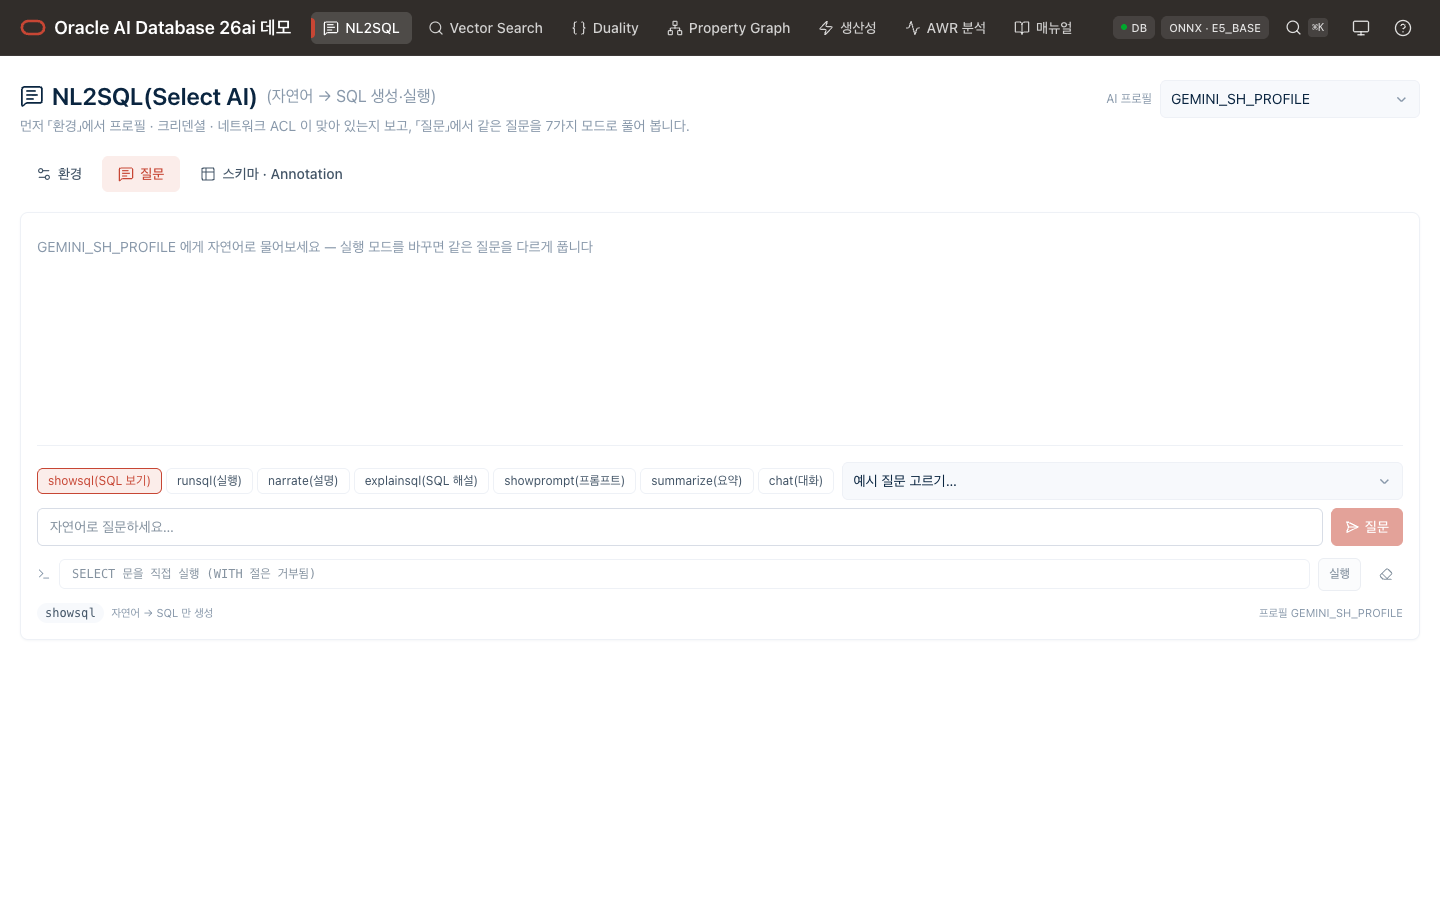
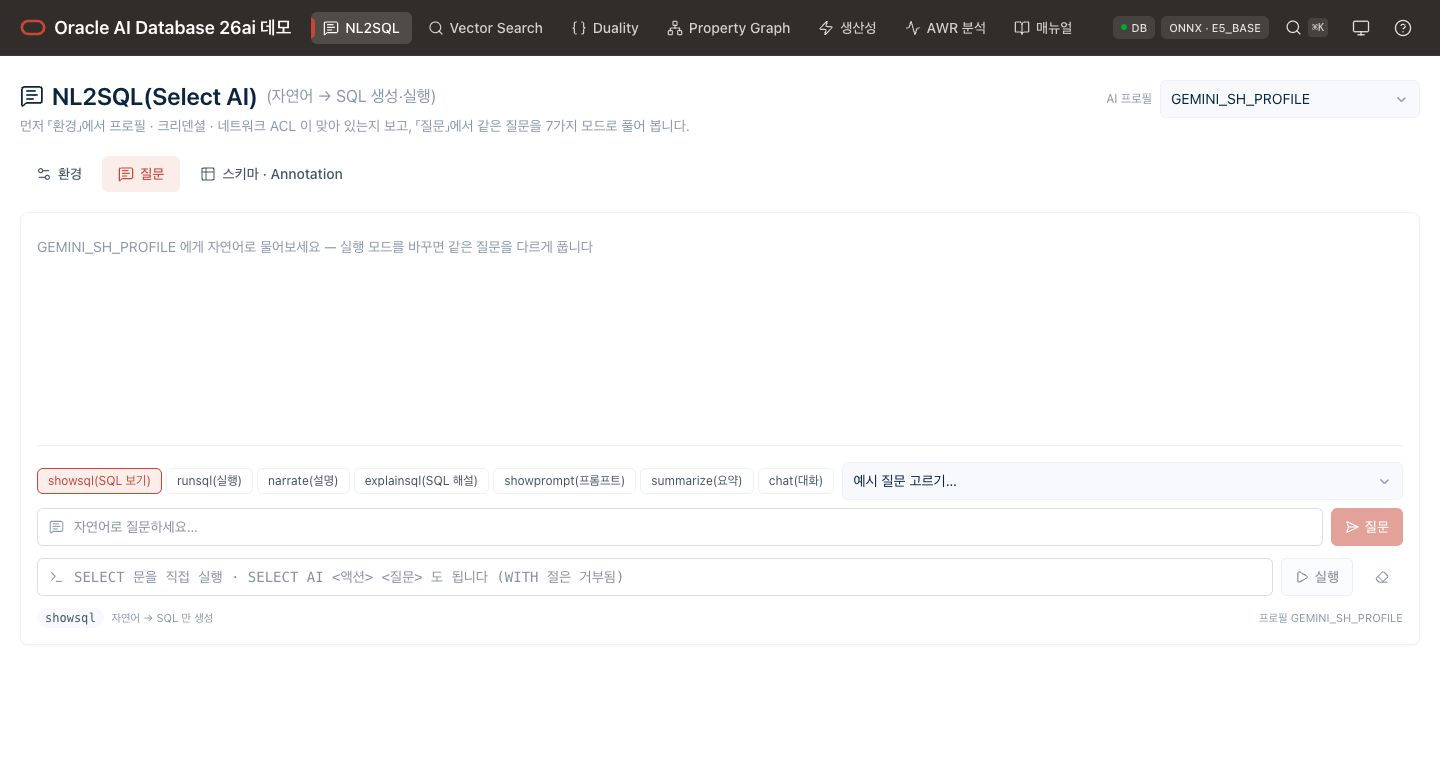
feat(nl2sql): 직접 실행한 SELECT AI 도 자연어 답변과 같은 블록으로 + 입력줄 두 개 통일
사용자 캡처: `select ai showsql 월별 매출 추이` 를 직접 실행하니 생성 SQL 이 RESPONSE
한 칸에 한 줄로 주욱 나왔다. "자연어 질문 결과처럼 들여쓰기된 SQL 로 나올 수 없나?
그리고 자연어 줄과 SQL 직접 실행 줄의 글자 크기가 다르다 — 일관되게, 대신 SQL 을
직접 넣는 줄이라는 특징은 살려서."

① 결과 블록 — `SELECT AI [액션] 질문` 은 자연어 질문과 같은 것이므로 같은 길로 보낸다.
  app/select_ai.py      액션·질문을 분리해 select_ai_action / select_ai_prompt 로 돌려준다
                        (액션 생략 = runsql). 액션 7종은 SELECT_AI_ACTIONS 한 곳으로 —
                        라우터 VALID_ACTIONS 가 그것을 쓴다
  stores/nl2sql.ts      runSql: select_ai 응답이면 msg.action/prompt/cached 를 채우고
                        processResult() 를 그대로 태운다 → showsql 은 「생성된 SQL」 줄번호
                        블록, narrate 는 마크다운, runsql 은 표+차트. RESPONSE 한 칸 표는
                        aiDirect 로 숨긴다. 후속 버튼(runsql·narrate·실행계획…)이 자연어
                        답변과 똑같이 달린다 — runAction 이 msg.prompt 로 /api/ask 를 부른다

② 입력줄 통일 — 두 줄이 같은 부품(ChatComposer)을 쓴다. 높이 38 · 글자 14 · 버튼 크기 동일.
  성격을 말하는 것만 다르다: 앞 아이콘(말풍선 vs >_), mono 글꼴, primary 「질문」 vs
  secondary 「▶ 실행」. ChatComposer 에 icon/sendIcon/mono/sendVariant 추가(기본값 = 기존).
  덤: Button secondary 가 border 로 테두리를 그려 옆의 primary 보다 2px 컸다(39.7 vs 37.7)
  → inset box-shadow 로. 앱 전체의 primary 옆 secondary 가 같은 높이가 된다(모양 동일).

검증: 테스트 +1(`select ai 질문` 기본 액션이 진짜 결과 집합), pytest 57 · ruff · build 통과.
브라우저: showsql → 줄번호 SQL 블록 + 후속 4개 / 기본형 → 고객수 55,500 표 + 후속 7개 /
RESPONSE 표 없음 / 두 입력줄 computed 38px·14px, 버튼 둘 다 37.7px.

diff --git a/web/src/components/demo/ChatComposer.vue b/web/src/components/demo/ChatComposer.vue
@@ -1,10 +1,16 @@
 <script setup lang="ts">
-/** 질문 입력줄 — Enter 로 전송. 위에 슬롯(프로필·모드 세그먼트 등)을 둘 수 있다. */
-import { SendHorizontal } from 'lucide-vue-next'
+/**
+ * 입력줄 — Enter 로 전송. 위에 슬롯(프로필·모드 세그먼트 등)을 둘 수 있다.
+ * NL2SQL 은 자연어 줄과 SQL 직접 실행 줄이 **같은 부품**을 써서 높이·글자 크기·버튼 크기가 같다(2026-09-07).
+ * 차이는 성격을 말하는 것만: 앞 아이콘(말풍선 vs `>_`), mono 글꼴, 버튼 변형(primary 질문 vs secondary 실행).
+ */
+import { SendHorizontal, type LucideIcon } from 'lucide-vue-next'
 import Button from '@/components/ui/Button.vue'
 
-const props = withDefaults(defineProps<{ modelValue: string; placeholder?: string; busy?: boolean; disabled?: boolean; sendLabel?: string }>(),
-  { placeholder: '질문을 입력하세요…', busy: false, disabled: false, sendLabel: '질문' })
+const props = withDefaults(defineProps<{
+  modelValue: string; placeholder?: string; busy?: boolean; disabled?: boolean; sendLabel?: string
+  icon?: LucideIcon; sendIcon?: LucideIcon; mono?: boolean; sendVariant?: 'primary' | 'secondary'
+}>(), { placeholder: '질문을 입력하세요…', busy: false, disabled: false, sendLabel: '질문', mono: false, sendVariant: 'primary' })
 const emit = defineEmits<{ 'update:modelValue': [string]; send: [] }>()
 function submit() { if (!props.busy && !props.disabled && props.modelValue.trim()) emit('send') }
 </script>
@@ -13,10 +19,14 @@ function submit() { if (!props.busy && !props.disabled && props.modelValue.trim(
   <div class="flex flex-col gap-2">
     <slot />
     <div class="flex items-center gap-2">
-      <input :value="modelValue" :placeholder="placeholder" :disabled="disabled || busy" class="flex-1 min-w-0 rounded-md px-3 py-2 text-sm"
-        style="background: var(--bg-elevated); border: 1px solid var(--border-strong); color: var(--text-primary);"
-        @input="emit('update:modelValue', ($event.target as HTMLInputElement).value)" @keydown.enter.prevent="submit" />
-      <Button :busy="busy" :disabled="disabled || !modelValue.trim()" @click="submit"><SendHorizontal :size="14" :stroke-width="2" /> {{ sendLabel }}</Button>
+      <div class="relative flex-1 min-w-0">
+        <component v-if="icon" :is="icon" :size="15" :stroke-width="1.75" class="absolute left-3 top-1/2 -translate-y-1/2 pointer-events-none" style="color: var(--text-muted);" />
+        <input :value="modelValue" :placeholder="placeholder" :disabled="disabled || busy" class="w-full min-w-0 rounded-md py-2 pr-3 text-sm"
+          :class="[icon ? 'pl-9' : 'pl-3', mono ? 'font-mono' : '']"
+          style="background: var(--bg-elevated); border: 1px solid var(--border-strong); color: var(--text-primary);"
+          @input="emit('update:modelValue', ($event.target as HTMLInputElement).value)" @keydown.enter.prevent="submit" />
+      </div>
+      <Button :variant="sendVariant" :busy="busy" :disabled="disabled || !modelValue.trim()" @click="submit"><component :is="sendIcon || SendHorizontal" :size="14" :stroke-width="2" /> {{ sendLabel }}</Button>
     </div>
   </div>
 </template>

diff --git a/web/src/pages/nl2sql/Nl2sqlAsk.vue b/web/src/pages/nl2sql/Nl2sqlAsk.vue
@@ -1,7 +1,7 @@
 <script setup lang="ts">
 import { computed, onMounted, ref } from 'vue'
 import { useRoute } from 'vue-router'
-import { Terminal, Eraser } from 'lucide-vue-next'
+import { MessageSquareText, Terminal, Play, Eraser } from 'lucide-vue-next'
 import Card from '@/components/ui/Card.vue'
 import Button from '@/components/ui/Button.vue'
 import Badge from '@/components/ui/Badge.vue'
@@ -51,18 +51,17 @@ const asMsg = (m: unknown) => m as Nl2sqlMessage
       </ChatThread>
 
       <div class="mt-4 pt-4 flex flex-col gap-3" style="border-top: 1px solid var(--border-default);">
-        <ChatComposer v-model="s.input" :busy="s.sending" :disabled="!s.profile" placeholder="자연어로 질문하세요…" send-label="질문" @send="s.send(s.input)">
+        <ChatComposer v-model="s.input" :icon="MessageSquareText" :busy="s.sending" :disabled="!s.profile" placeholder="자연어로 질문하세요…" send-label="질문" @send="s.send(s.input)">
           <div class="flex flex-wrap items-center gap-2">
             <Segmented :model-value="s.action" :options="actionOptions" size="sm" @update:model-value="(v: string) => (s.action = v as Action)" />
             <div class="flex-1 min-w-[240px]"><SearchableSelect :model-value="example" :options="exampleOptions" placeholder="예시 질문 고르기…" @update:model-value="pickExample" /></div>
           </div>
         </ChatComposer>
+        <!-- SQL 직접 실행 — 위 자연어 줄과 같은 부품(같은 높이·글자·버튼 크기). `>_` · mono · secondary 버튼이 "여긴 SQL" 이라고 말한다 -->
         <div class="flex items-center gap-2">
-          <Terminal :size="14" :stroke-width="1.75" style="color: var(--text-muted);" />
-          <input v-model="s.sqlInput" :disabled="s.sqlRunning" placeholder="SELECT 문 직접 실행 · SELECT AI <액션> <질문> 도 됩니다 (WITH 절은 거부됨)" class="flex-1 min-w-0 rounded-md px-3 py-1.5 text-xs font-mono"
-            style="background: var(--bg-elevated); border: 1px solid var(--border-default); color: var(--text-primary);" @keydown.enter.prevent="s.runSql(s.sqlInput)" />
-          <Button variant="secondary" size="sm" :busy="s.sqlRunning" :disabled="!s.sqlInput.trim()" @click="s.runSql(s.sqlInput)">실행</Button>
-          <Button variant="ghost" size="sm" title="대화 비우기" :disabled="!s.asked" @click="s.clear()"><Eraser :size="14" :stroke-width="1.75" /></Button>
+          <ChatComposer v-model="s.sqlInput" class="flex-1 min-w-0" :icon="Terminal" :send-icon="Play" mono send-variant="secondary" :busy="s.sqlRunning" :disabled="!s.profile"
+            placeholder="SELECT 문을 직접 실행 · SELECT AI <액션> <질문> 도 됩니다 (WITH 절은 거부됨)" send-label="실행" @send="s.runSql(s.sqlInput)" />
+          <Button variant="ghost" title="대화 비우기" :disabled="!s.asked" @click="s.clear()"><Eraser :size="14" :stroke-width="1.75" /></Button>
         </div>
         <div class="flex items-center gap-2 text-[11px]" style="color: var(--text-muted);">
           <Badge tone="code">{{ s.action }}</Badge><span>{{ ACTIONS.find((a) => a.value === s.action)?.hint }}</span>

diff --git a/web/src/stores/nl2sql.ts b/web/src/stores/nl2sql.ts
@@ -34,6 +34,8 @@ export interface Nl2sqlMessage extends ChatMessage {
   actionLoading?: boolean
   actionLoadingText?: string
   sqlResult?: Rows | null
+  /** 직접 실행창에 친 `SELECT AI …` — 결과는 자연어 답변과 같은 블록(생성된 SQL·표·서술)으로 그린다 */
+  aiDirect?: boolean
 }
 
 const now = () => new Date().toLocaleTimeString('ko-KR', { hour: '2-digit', minute: '2-digit' })
@@ -239,9 +241,25 @@ export const useNl2sqlStore = defineStore('nl2sql', () => {
       const r = await executeSql(sql, profile.value)
       msg.elapsedMs = r.elapsed_ms ?? null
       msg.sqlResult = r.rows
-      if (r.select_ai) msg.profileName = r.profile_name || profile.value   // SqlBlock 배지: 어느 프로필로 번역됐나
-      // 오류는 표 자리(ResultTable 의 error 행)에 한 번만 — 상단 배너까지 겹치면 같은 문장이 두 번 보인다
-      if (!r.success && !r.rows?.error) msg.errorText = r.error || 'SQL 실행에 실패했습니다.'
+      if (r.select_ai) {
+        // `SELECT AI [액션] 질문` 은 자연어 질문과 같은 것이다 — 같은 블록으로 그리고 같은 후속 버튼을 단다.
+        // 친 문장은 위의 「직접 실행한 SQL」 블록(배지: 프로필)에 남고, RESPONSE 한 칸짜리 표는 숨긴다.
+        const act = (r.select_ai_action || 'runsql') as Action
+        msg.aiDirect = true
+        msg.action = act
+        msg.prompt = r.select_ai_prompt || ''
+        msg.profileName = r.profile_name || profile.value
+        msg.cached = {}
+        msg.chartType = 'bar'
+        if (r.success) {
+          const payload: unknown = act === 'runsql' ? r.rows.rows : r.rows.rows[0]?.[r.rows.columns[0]] ?? ''
+          msg.cached[act] = payload
+          processResult(msg, act, payload)
+        } else msg.errorText = r.error || 'SQL 실행에 실패했습니다.'
+      } else if (!r.success && !r.rows?.error) {
+        // 오류는 표 자리(ResultTable 의 error 행)에 한 번만 — 상단 배너까지 겹치면 같은 문장이 두 번 보인다
+        msg.errorText = r.error || 'SQL 실행에 실패했습니다.'
+      }
     } catch (e) { msg.errorText = errorMessage(e) }
     finally { msg.loading = false; sqlRunning.value = false }
   }

diff --git a/web/src/components/ui/Button.vue b/web/src/components/ui/Button.vue
@@ -15,7 +15,8 @@ const sizeStyle: Record<string, string> = {
 }
 const variantStyle: Record<string, string> = {
   primary: 'background: var(--accent-primary); color: var(--text-on-accent);',
-  secondary: 'background: var(--bg-surface); color: var(--text-primary); border: 1px solid var(--border-strong);',
+  // 테두리를 inset 그림자로 그린다 — border 는 박스를 2px 키워 옆의 primary 와 높이가 어긋났다(2026-09-07 실측 39.7 vs 37.7).
+  secondary: 'background: var(--bg-surface); color: var(--text-primary); box-shadow: inset 0 0 0 1px var(--border-strong);',
   ghost: 'background: transparent; color: var(--text-primary);',
   danger: 'background: var(--accent-negative); color: var(--text-on-accent);',
 }

diff --git a/web/src/pages/nl2sql/Nl2sqlAnswer.vue b/web/src/pages/nl2sql/Nl2sqlAnswer.vue
@@ -43,7 +43,7 @@ const chart = computed(() => {
         <!-- SQL 직접 실행 -->
         <template v-if="msg.sqlResult">
           <SqlBlock :code="msg.sqlResult.sql" label="직접 실행한 SQL" :badge="msg.profileName ? `SELECT AI · ${msg.profileName}` : undefined" />
-          <ResultTable :rows="msg.sqlResult" dense />
+          <ResultTable v-if="!msg.aiDirect" :rows="msg.sqlResult" dense />
         </template>
 
         <SqlBlock v-if="msg.sql" :code="msg.sql" label="생성된 SQL" badge="Select AI" line-numbers />

diff --git a/app/select_ai.py b/app/select_ai.py
@@ -313,7 +313,13 @@ async def get_explain_plan(pool, sql: str) -> dict:
         return {"error": str(e), "sql_used": stripped}
 
 
+# Select AI 액션 7종 — 라우터의 VALID_ACTIONS 가 이것을 그대로 쓴다(정본 한 곳).
+SELECT_AI_ACTIONS = ("runsql", "showsql", "narrate", "explainsql", "showprompt", "summarize", "chat")
 _SELECT_AI_RE = re.compile(r"^SELECT\s+AI\b", re.IGNORECASE)
+# `SELECT AI [액션] 질문` — 액션을 생략하면 runsql. 화면이 결과를 액션에 맞게 그리려고 둘을 분리해 돌려준다.
+_SELECT_AI_PARTS_RE = re.compile(
+    r"^SELECT\s+AI\s+(?:(" + "|".join(SELECT_AI_ACTIONS) + r")\b\s*)?(.*)$", re.IGNORECASE | re.DOTALL
+)
 
 
 async def execute_raw_sql(pool, sql: str, profile_name: str = "") -> dict:
@@ -331,6 +337,11 @@ async def execute_raw_sql(pool, sql: str, profile_name: str = "") -> dict:
         return {"error": "SELECT 문만 실행할 수 있습니다."}
 
     is_select_ai = bool(_SELECT_AI_RE.match(stripped))
+    ai_action, ai_prompt = "", ""
+    if is_select_ai:
+        m = _SELECT_AI_PARTS_RE.match(stripped)
+        ai_action = (m.group(1) or "runsql").lower() if m else "runsql"
+        ai_prompt = (m.group(2) or "").strip() if m else ""
     if is_select_ai and not profile_name:
         return {"sql_executed": stripped, "error": "SELECT AI 구문은 AI 프로필이 필요합니다 — 페이지 우상단에서 프로필을 고르세요."}
 
@@ -359,6 +370,8 @@ async def execute_raw_sql(pool, sql: str, profile_name: str = "") -> dict:
                     "row_count": len(data),
                     "select_ai": is_select_ai,
                     "profile_name": profile_name if is_select_ai else "",
+                    "select_ai_action": ai_action,
+                    "select_ai_prompt": ai_prompt,
                 }
     except Exception as e:
         return {

diff --git a/tests/test_api_smoke.py b/tests/test_api_smoke.py
@@ -279,6 +279,14 @@ class TestSelectAiShorthand:
         assert r["select_ai"] is True and r["profile_name"] == self.PROFILE
         assert r["columns"] == ["RESPONSE"], r["columns"]
         assert "CUSTOMERS" in str(r["data"][0]["RESPONSE"]).upper(), r["data"]
+        assert r["select_ai_action"] == "showsql" and r["select_ai_prompt"] == "고객이 몇 명인가요"
+
+    def test_액션을_생략하면_runsql_로_실제_결과가_온다(self, client):
+        """사용자가 실제로 친 형태 — `select ai 질문`. RESPONSE 한 칸이 아니라 진짜 결과 집합이어야 한다."""
+        r = client.post("/api/execute-sql", json={"sql": "select ai 고객이 몇 명인가요", "profile_name": self.PROFILE}).json()
+        assert r.get("success"), r.get("error")
+        assert r["select_ai_action"] == "runsql" and r["select_ai_prompt"] == "고객이 몇 명인가요"
+        assert r["columns"] != ["RESPONSE"] and r["row_count"] == 1, (r["columns"], r["row_count"])
 
     def test_프로필_없이_보내면_명확한_오류(self, client):
         r = client.post("/api/execute-sql", json={"sql": "select AI showsql 고객이 몇 명인가요"}).json()

diff --git a/app/routers/nl2sql.py b/app/routers/nl2sql.py
@@ -10,6 +10,7 @@ from pydantic import BaseModel
 
 from app.database import get_pool
 from app.select_ai import (
+    SELECT_AI_ACTIONS,
     apply_annotations,
     ask_select_ai,
     execute_raw_sql,
@@ -24,7 +25,7 @@ from app.select_ai import (
 
 router = APIRouter(prefix="/api", tags=["nl2sql"])
 
-VALID_ACTIONS = {"runsql", "showsql", "narrate", "explainsql", "showprompt", "summarize", "chat"}
+VALID_ACTIONS = set(SELECT_AI_ACTIONS)  # 정본은 app/select_ai.py — 직접 실행창의 SELECT AI 파서와 같은 목록
 
 # 「환경 확인」 버튼 3종. 조회 SQL 정본은 app/select_ai.py 의 ENV_QUERIES 다.
 VALID_ENV_KINDS = {"profile", "acl", "credential"}

diff --git a/docs/SESSION_HANDOFF.md b/docs/SESSION_HANDOFF.md
@@ -457,6 +457,29 @@ ORA-20046(4-9)과 같은 뿌리, 다른 증상. 오전에 SQL Developer 가 낸 
 브라우저에서 `select ai showsql 고객이 모두 몇 명인가요` → 배지 + RESPONSE, `select foo from nowhere` → ORA-00942 한 번.
 `개발노하우.md` 3.4 · 가이드 01 「직접 SQL 실행」 · CLAUDE.md API 목록 갱신.
 
+## 4-18. 직접 실행한 `SELECT AI` 도 자연어 답변과 같은 블록으로 + 입력줄 두 개 통일 (2026-09-07, Fable 5.1)
+
+**계기** — 사용자 캡처: `select ai showsql 월별 매출 추이` 를 직접 실행하니 생성 SQL 이 `RESPONSE` 한 칸에 **한 줄로 주욱** 나왔다.
+"자연어 질문 결과처럼 들여쓰기된 SQL 로 나올 수 없나? 그리고 자연어 줄과 SQL 직접 실행 줄의 글자 크기가 다르다 — 일관되게, 대신 SQL 을 직접
+넣는 줄이라는 특징은 살려서."
+
+**① 결과 블록** — `SELECT AI [액션] 질문` 은 자연어 질문과 같은 것이므로 **같은 길로 보낸다.**
+- 서버 `execute_raw_sql` 이 액션과 질문을 분리해 `select_ai_action` · `select_ai_prompt` 로 돌려준다(액션 생략 = runsql).
+  액션 7종 목록은 `select_ai.py` 의 `SELECT_AI_ACTIONS` 하나로 모았고 라우터 `VALID_ACTIONS` 는 그것을 쓴다.
+- 스토어 `runSql` 이 `select_ai` 응답이면 `msg.action = 액션`, `msg.prompt = 질문`, `msg.cached[액션] = 응답` 을 채우고
+  **`processResult()` 를 그대로 태운다** → showsql 은 「생성된 SQL」 줄번호 블록, narrate/explainsql 은 마크다운 서술, runsql 은 표 + 차트.
+  친 문장은 위 「직접 실행한 SQL」 블록(배지 `SELECT AI · 프로필`)에 남고, `RESPONSE` 한 칸짜리 표는 `aiDirect` 로 숨긴다.
+- 그래서 **후속 버튼(runsql · narrate · 실행계획 · showprompt …)이 자연어 답변과 똑같이 달린다** — `runAction` 이 `msg.prompt`/`msg.profileName` 으로 `/api/ask` 를 부르므로 추가 코드 없이 동작.
+
+**② 입력줄 통일** — 두 줄이 **같은 부품(`ChatComposer`)** 을 쓰게 했다. 높이 38px · 글자 14px · 버튼 크기가 같아진다(실측).
+성격을 말하는 것만 다르다: 앞 아이콘(말풍선 vs `>_`), SQL 줄은 mono 글꼴, 버튼은 primary 「질문」 vs secondary 「실행」(▶).
+`ChatComposer` 에 `icon` · `sendIcon` · `mono` · `sendVariant` 를 추가했고 기본값은 기존 동작 그대로(Vector 탭 영향 없음).
+덤: `Button` secondary 가 `border` 로 테두리를 그려 옆의 primary 보다 **2px 컸다**(39.7 vs 37.7). inset `box-shadow` 로 바꿔 앱 전체에서
+primary 옆에 놓인 secondary 가 같은 높이가 된다 — 이 화면만이 아니라 모든 탭에 적용되는 변경이다(모양은 동일).
+
+**검증** — 테스트 +1(`select ai 질문` 기본 액션이 진짜 결과 집합을 돌려준다), 57개 통과. 브라우저에서 showsql → 줄번호 SQL 블록 + 후속 4개,
+기본형 → 고객수 55,500 표 + 후속 7개(차트 포함), `RESPONSE` 표 없음. 두 입력줄 computed: 38px/14px, `-apple-system` vs `SF Mono`.
+
 ## 5. 절대 지켜야 할 규칙 (발췌 — 정본은 `docs/개발노하우.md`)
 
 - **커밋 전 시크릿 게이트 필수.** 저장소가 GitHub 공개다. 한번 push 된 시크릿은

diff --git a/docs/design/03_API_명세서.md b/docs/design/03_API_명세서.md
@@ -35,14 +35,14 @@
 
 | Method | 경로 | 요청 | 설명 | 구현 |
 |---|---|---|---|---|
-| `POST` | `/api/apply-annotations` | raw JSON | annotation 세트를 DB에 일괄 적용한다. | `app/routers/nl2sql.py:165` |
-| `POST` | `/api/ask` | AskRequest | Select AI 로 자연어 질문을 처리한다 (action 7종: runsql/showsql/narrate/explainsql/showprompt/summarize/chat). | `app/routers/nl2sql.py:70` |
-| `POST` | `/api/execute-sql` | ExecuteSqlRequest | 사용자가 입력한 SQL을 직접 실행. `SELECT AI …` 도 받는다 (profile_name 필요). | `app/routers/nl2sql.py:236` |
-| `POST` | `/api/explain-plan` | ExecuteSqlRequest | SQL에 대한 실행계획을 조회한다. | `app/routers/nl2sql.py:215` |
-| `GET` | `/api/profiles` | — | 등록된 AI 프로필 목록을 조회한다. | `app/routers/nl2sql.py:121` |
-| `POST` | `/api/remove-annotations` | raw JSON | annotation을 일괄 제거한다. | `app/routers/nl2sql.py:180` |
-| `POST` | `/api/schema-info` | SetProfileRequest | 프로필에 등록된 테이블의 컬럼 정보를 조회한다. | `app/routers/nl2sql.py:196` |
-| `POST` | `/api/set-profile` | SetProfileRequest | DBMS_CLOUD_AI.SET_PROFILE 실행 | `app/routers/nl2sql.py:141` |
+| `POST` | `/api/apply-annotations` | raw JSON | annotation 세트를 DB에 일괄 적용한다. | `app/routers/nl2sql.py:166` |
+| `POST` | `/api/ask` | AskRequest | Select AI 로 자연어 질문을 처리한다 (action 7종: runsql/showsql/narrate/explainsql/showprompt/summarize/chat). | `app/routers/nl2sql.py:71` |
+| `POST` | `/api/execute-sql` | ExecuteSqlRequest | 사용자가 입력한 SQL을 직접 실행. `SELECT AI …` 도 받는다 (profile_name 필요). | `app/routers/nl2sql.py:237` |
+| `POST` | `/api/explain-plan` | ExecuteSqlRequest | SQL에 대한 실행계획을 조회한다. | `app/routers/nl2sql.py:216` |
+| `GET` | `/api/profiles` | — | 등록된 AI 프로필 목록을 조회한다. | `app/routers/nl2sql.py:122` |
+| `POST` | `/api/remove-annotations` | raw JSON | annotation을 일괄 제거한다. | `app/routers/nl2sql.py:181` |
+| `POST` | `/api/schema-info` | SetProfileRequest | 프로필에 등록된 테이블의 컬럼 정보를 조회한다. | `app/routers/nl2sql.py:197` |
+| `POST` | `/api/set-profile` | SetProfileRequest | DBMS_CLOUD_AI.SET_PROFILE 실행 | `app/routers/nl2sql.py:142` |
 
 ## ② AI Vector Search — 검색·문서
 
@@ -134,7 +134,7 @@
 
 | Method | 경로 | 요청 | 설명 | 구현 |
 |---|---|---|---|---|
-| `POST` | `/api/env-info` | EnvInfoRequest | Select AI 환경 3종을 조회한다 — profile(프로필 속성) · acl(네트워크 ACL) · credential(크리덴셜). | `app/routers/nl2sql.py:53` |
+| `POST` | `/api/env-info` | EnvInfoRequest | Select AI 환경 3종을 조회한다 — profile(프로필 속성) · acl(네트워크 ACL) · credential(크리덴셜). | `app/routers/nl2sql.py:54` |
 
 ---
 
